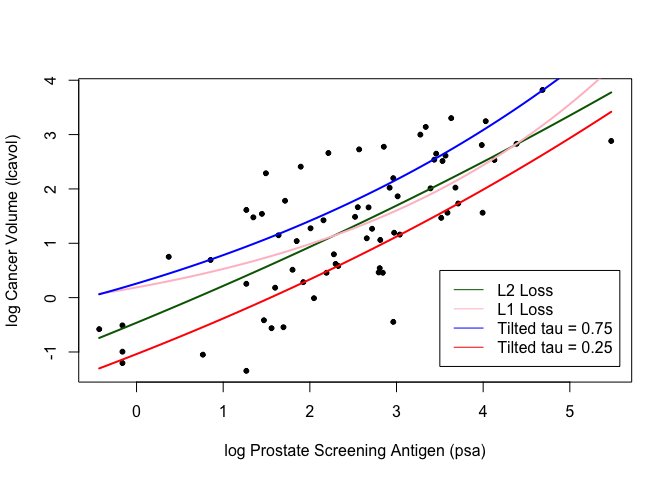
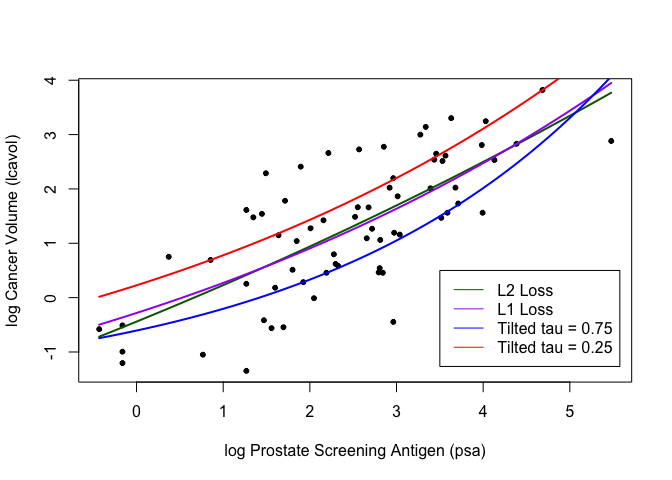
correct version

diff --git a/Homework-2/Homework2.md b/Homework-2/Homework2.md
@@ -285,7 +285,7 @@ legend(x =  3.5, y = .5,legend = c('L2 Loss','L1 Loss','Tilted tau = 0.75','Tilt
 
 ``` r
 ## fit simple non-linear model using numerical optimization
-fit_non_lin <- function(y, x, loss, beta_init = c(-1.0, 0.0, 0.3)) {
+fit_non_lin <- function(y, x, loss, beta_init = c(-1.0, 0.0, -0.3)) {
   err <- function(beta)
     mean(loss(y,  beta[1] + beta[2]*exp(-beta[3]*x)))
   beta <- optim(par = beta_init, fn = err)
@@ -329,28 +329,7 @@ x_grid <- seq(min(prostate_train$lpsa),
               max(prostate_train$lpsa),
               length.out=100)
 lin_pred <- predict_non_lin(x=x_grid, beta=lin_beta$par)
-print(lin_pred)
-```
 
-    ##   [1] 0.07045229 0.08588032 0.10158615 0.11757476 0.13385125 0.15042080
-    ##   [7] 0.16728869 0.18446030 0.20194108 0.21973661 0.23785256 0.25629469
-    ##  [13] 0.27506887 0.29418109 0.31363743 0.33344408 0.35360736 0.37413369
-    ##  [19] 0.39502960 0.41630174 0.43795690 0.46000196 0.48244395 0.50529002
-    ##  [25] 0.52854744 0.55222361 0.57632608 0.60086252 0.62584074 0.65126871
-    ##  [31] 0.67715452 0.70350640 0.73033276 0.75764214 0.78544323 0.81374488
-    ##  [37] 0.84255612 0.87188611 0.90174419 0.93213988 0.96308285 0.99458296
-    ##  [43] 1.02665024 1.05929489 1.09252733 1.12635812 1.16079805 1.19585807
-    ##  [49] 1.23154937 1.26788329 1.30487142 1.34252553 1.38085762 1.41987988
-    ##  [55] 1.45960475 1.50004488 1.54121314 1.58312266 1.62578676 1.66921904
-    ##  [61] 1.71343334 1.75844372 1.80426453 1.85091036 1.89839606 1.94673675
-    ##  [67] 1.99594783 2.04604498 2.09704413 2.14896154 2.20181374 2.25561755
-    ##  [73] 2.31039012 2.36614889 2.42291160 2.48069635 2.53952153 2.59940587
-    ##  [79] 2.66036845 2.72242867 2.78560631 2.84992148 2.91539467 2.98204671
-    ##  [85] 3.04989885 3.11897268 3.18929021 3.26087382 3.33374632 3.40793091
-    ##  [91] 3.48345122 3.56033129 3.63859560 3.71826909 3.79937712 3.88194553
-    ##  [97] 3.96600060 4.05156911 4.13867831 4.22735593
-
-``` r
 lines(x=x_grid, y=lin_pred, col='purple', lwd=2)
 
 ## fit linear model
